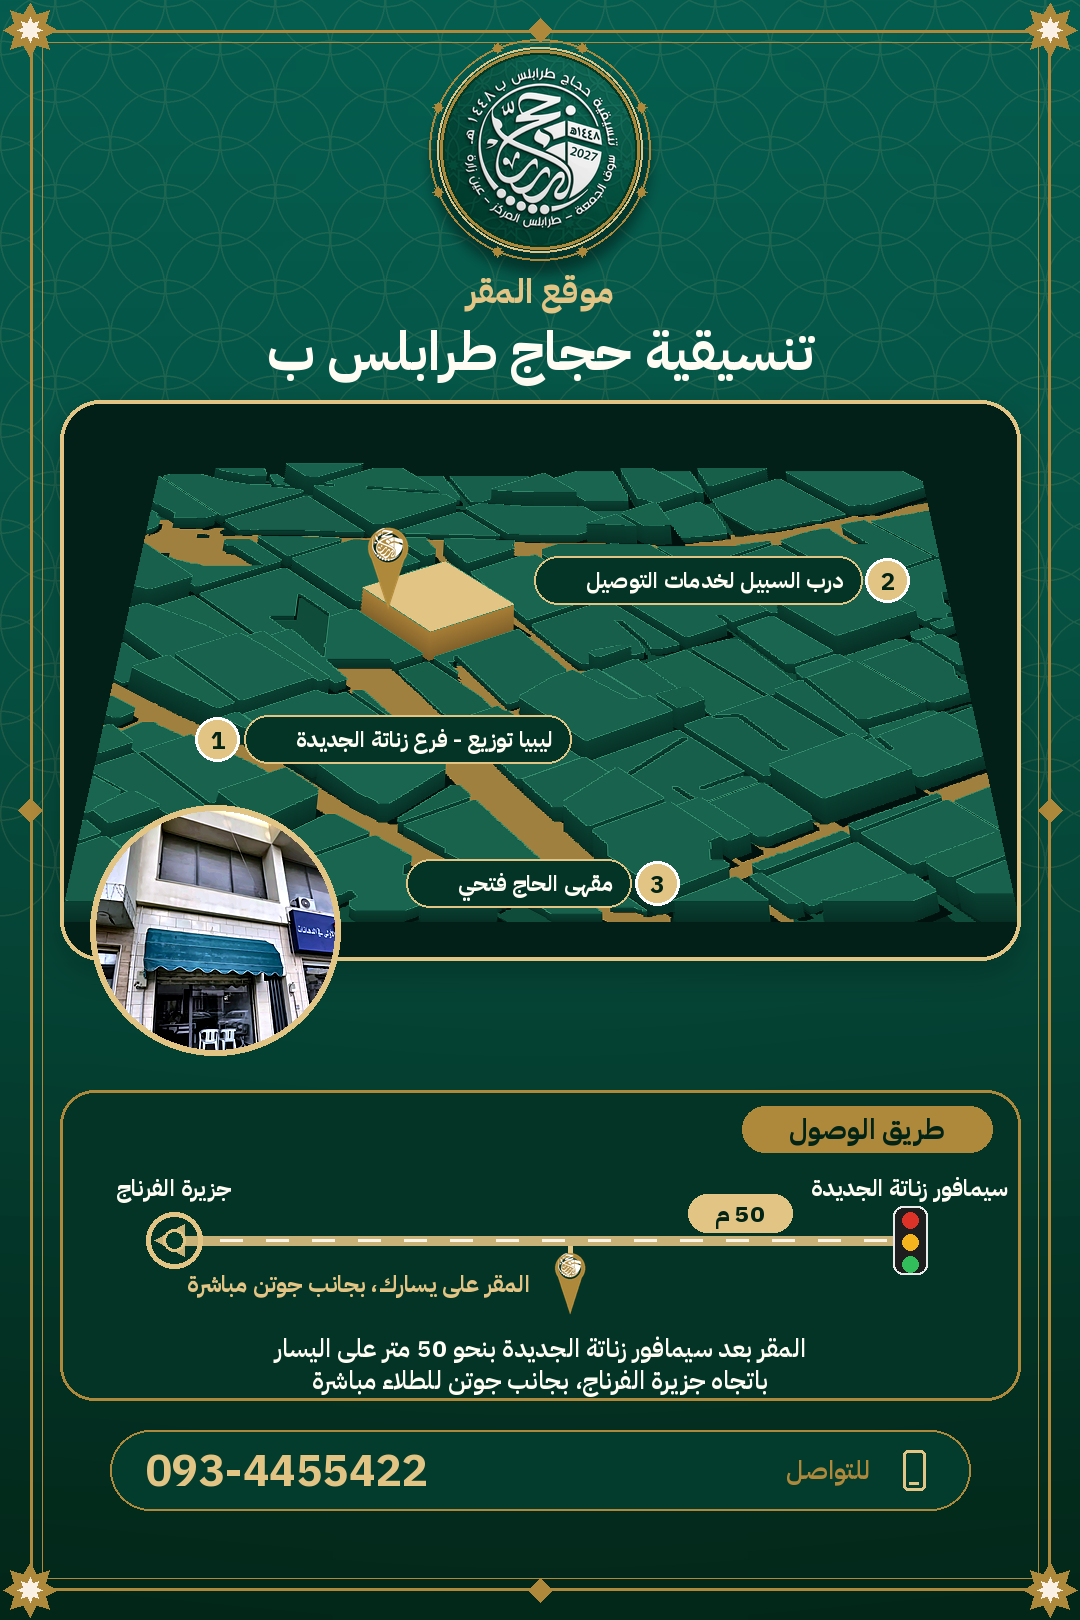
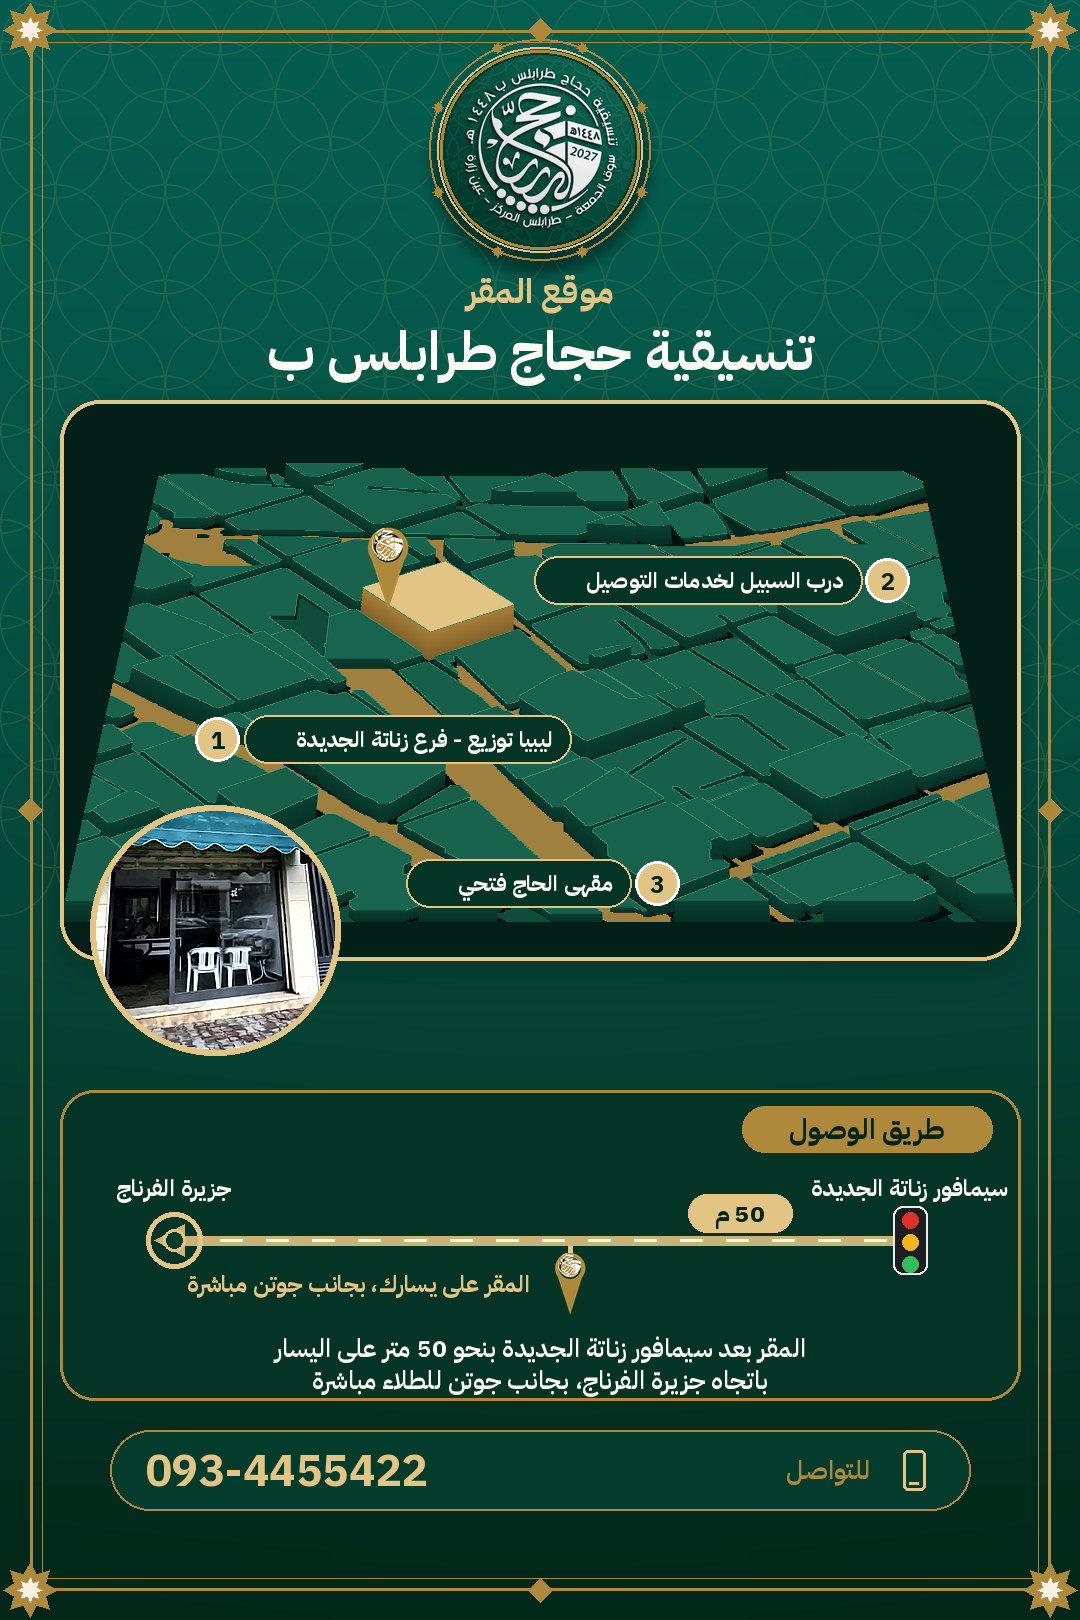
Location v5: final facade framing
Claude-Session: https://claude.ai/code/session_0191y2EXY5dUDpfBFmNJAMrU

Changed region(s): [[0.0917, 0.4938, 0.3361, 0.6481]]

diff --git a/identity_pack/make_location_v5.py b/identity_pack/make_location_v5.py
@@ -21,9 +21,11 @@ L1.PHOTO = "mapdata/shop_photo4.jpg"
 _photo = L1.photo
 def photo(w, h, focus=None):
     if w <= 300: focus = (0, .50, 1, .84)
-    elif w / h > 1.1: focus = (0, .50, 1, .88)
+    elif w / h > 1.1: focus = (0, .36, 1, .74)
     else: focus = (0, .04, 1, .90)
     return _photo(w, h, focus)
+
+L1.photo = photo
 
 def iso_map(img, box, dark=False, labels=True, r=40, pin_col=None):
     cw, ch = box[2] - box[0], box[3] - box[1]
